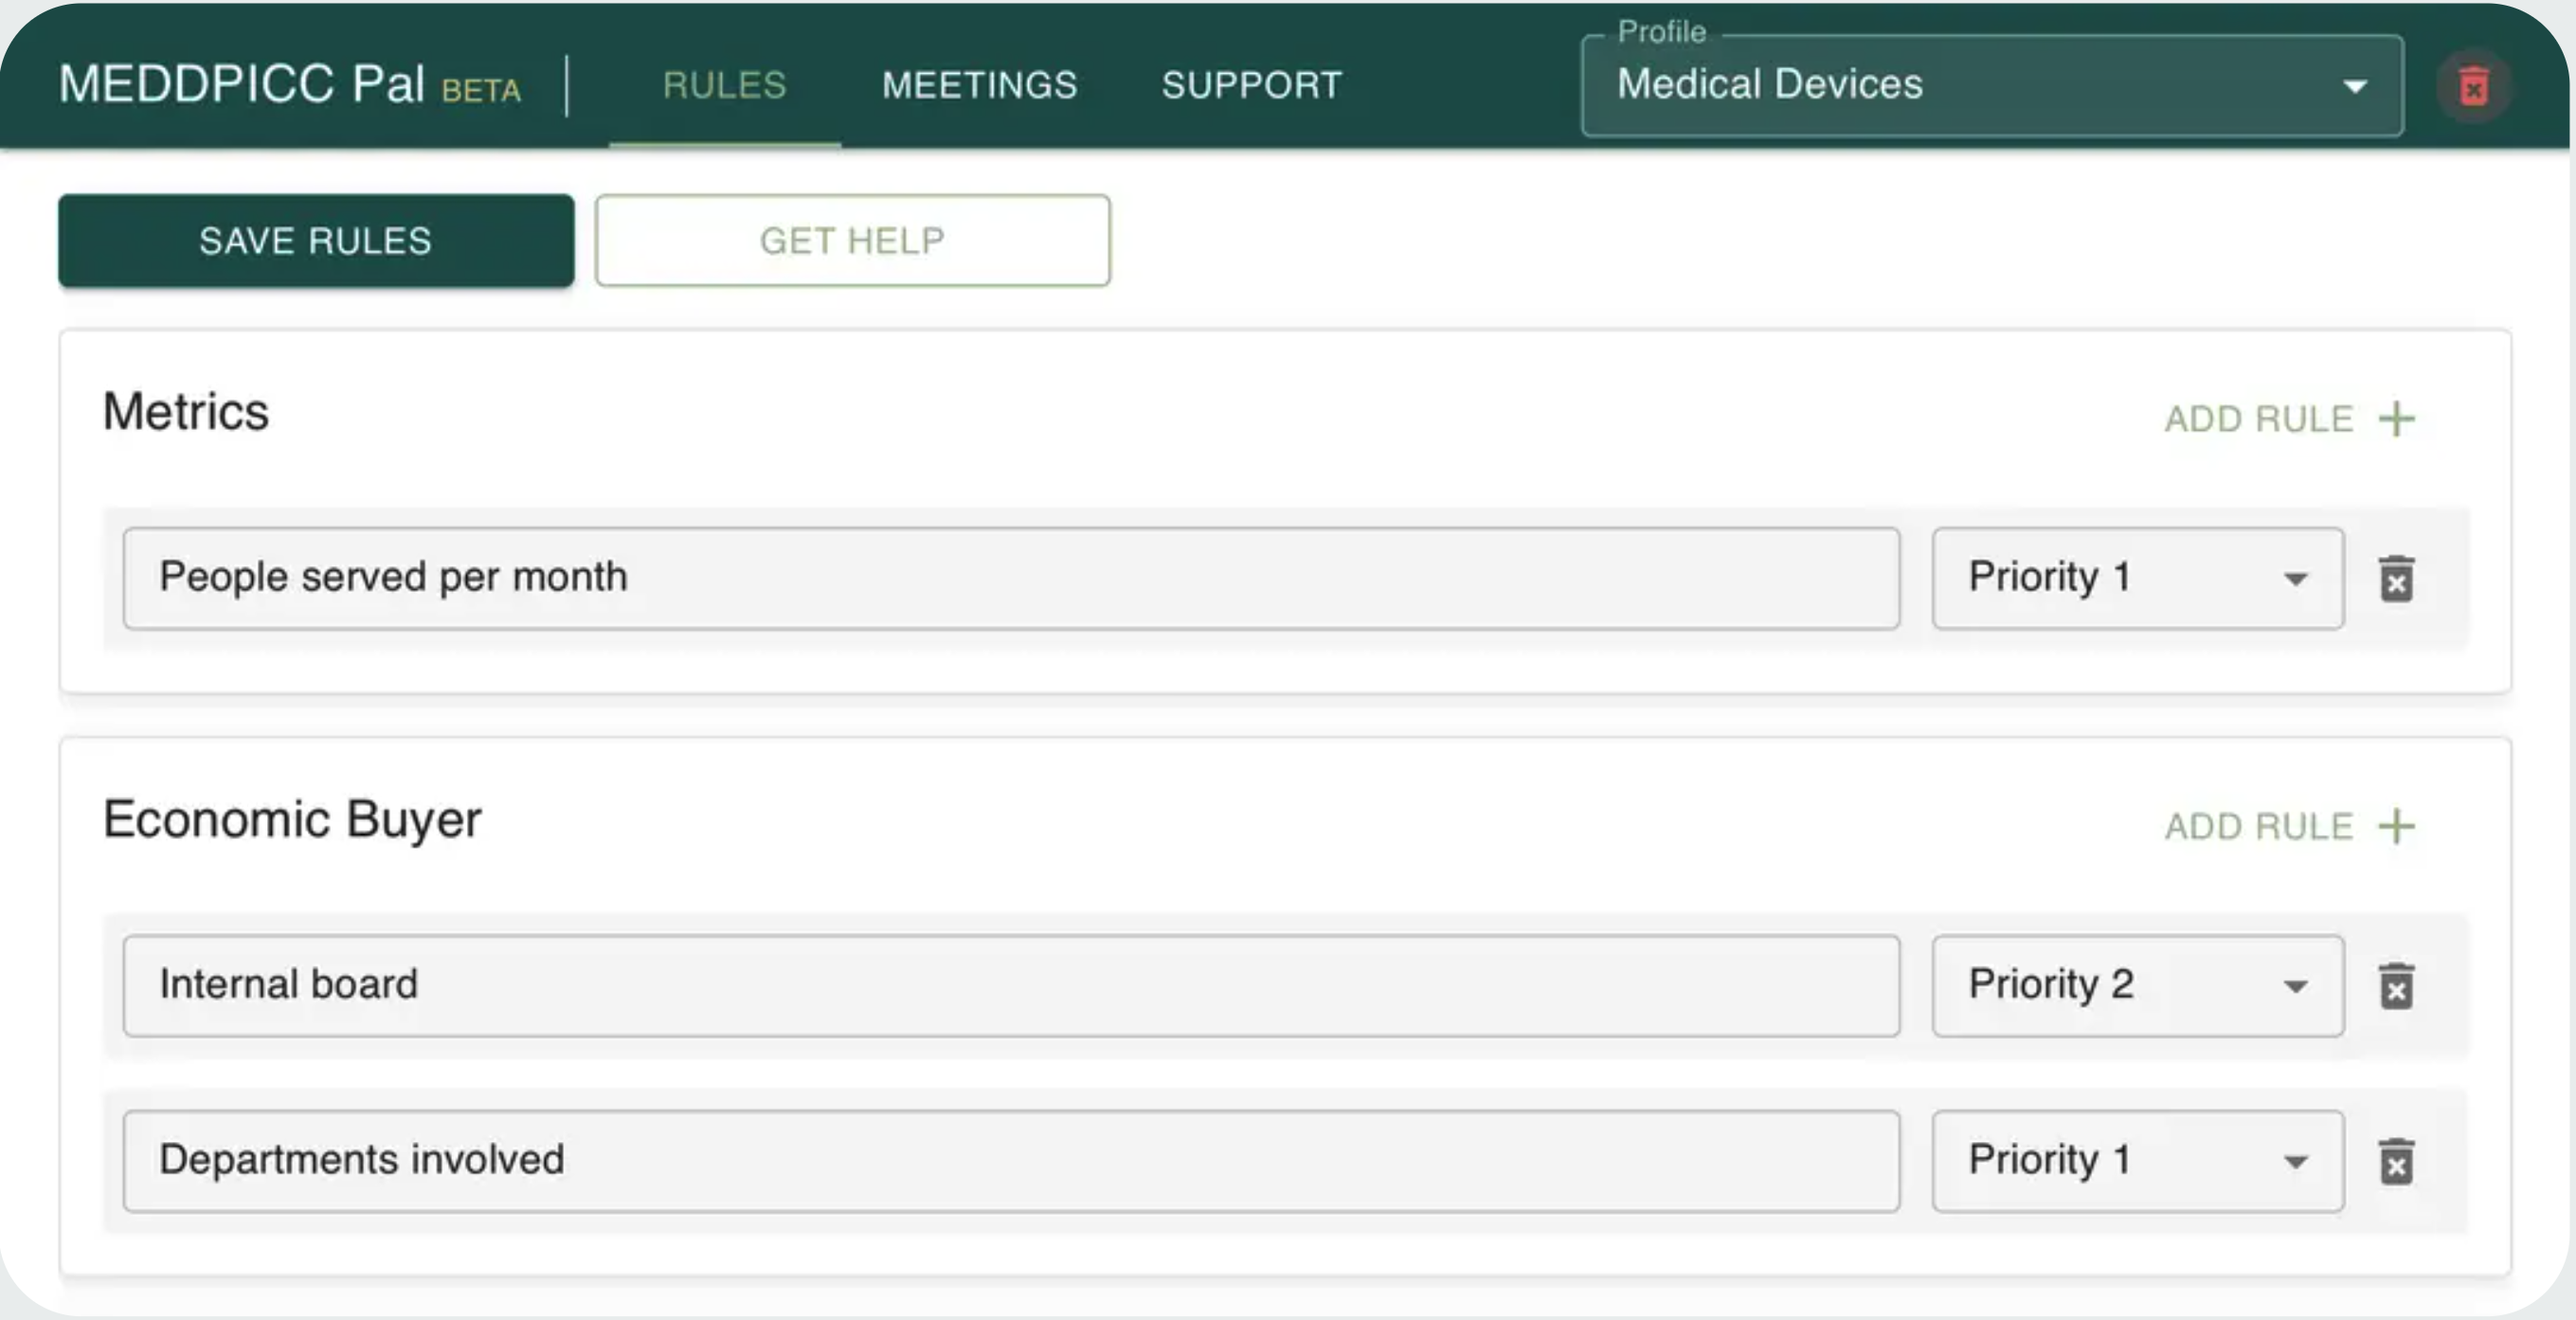
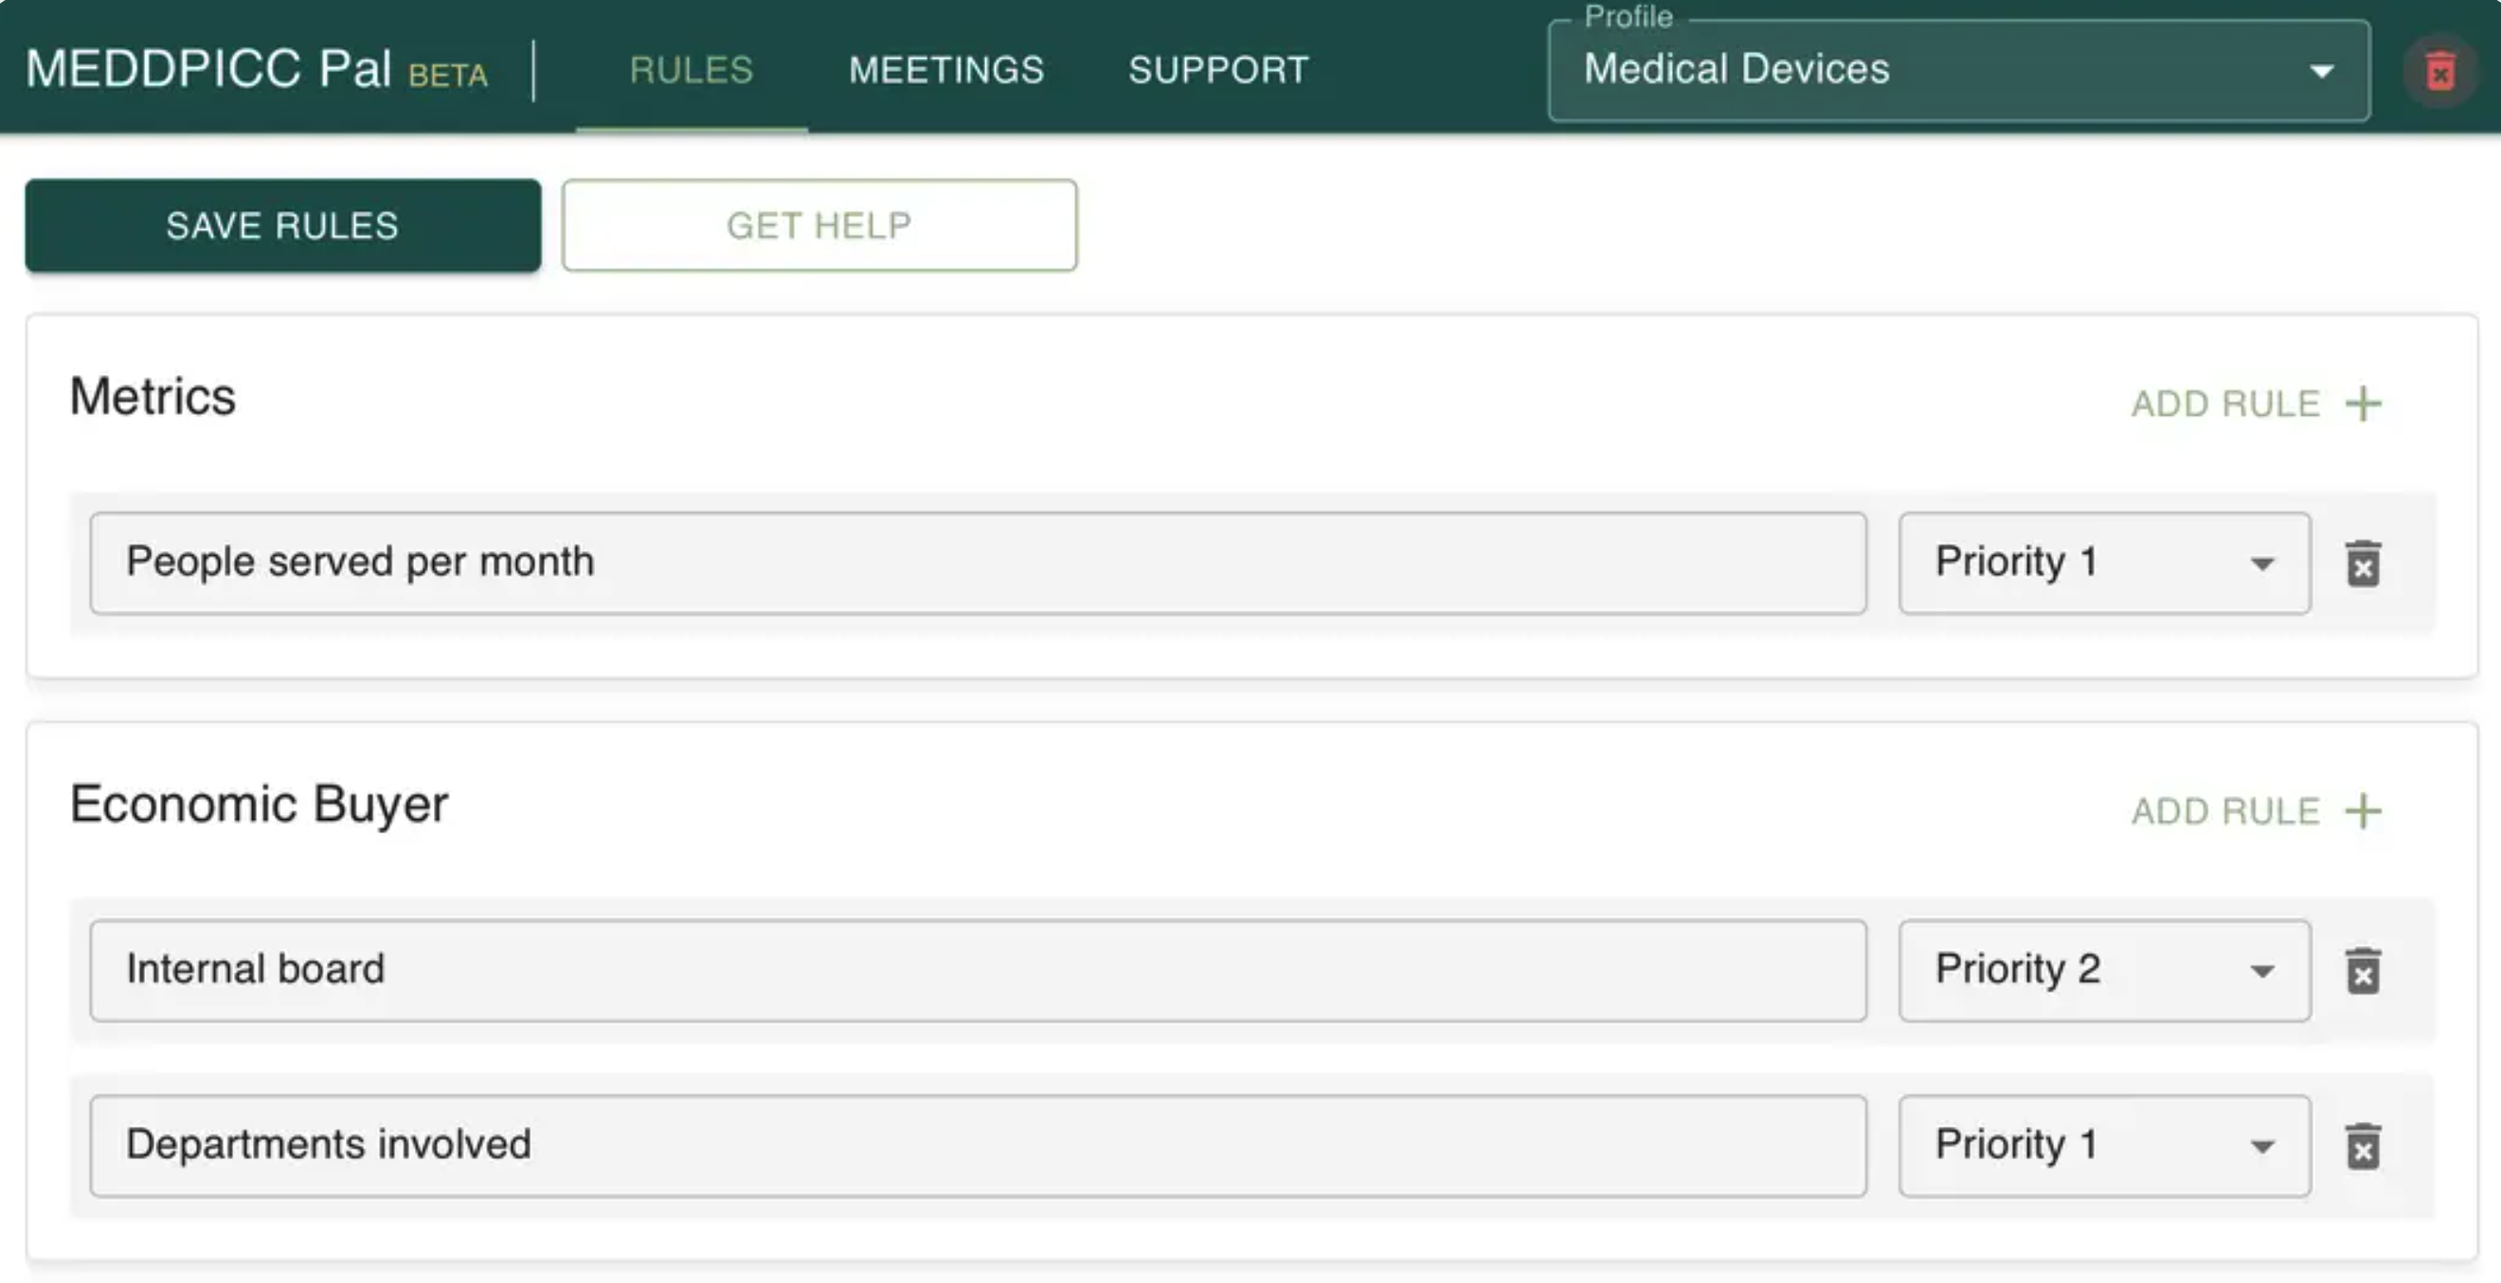
commit

diff --git a/app/contentCards/MEDDPICCPalCard.js b/app/contentCards/MEDDPICCPalCard.js
@@ -182,7 +182,7 @@ function MEDDPICCPalCard() {
                   position: "relative",
                   width: "100%",
                   aspectRatio: "16 / 9",
-                  borderRadius: "8px",
+                  borderRadius: "2rem",
                   overflow: "hidden",
                   mb: 2,
                 }}
@@ -191,7 +191,7 @@ function MEDDPICCPalCard() {
                   src={carouselImages[currentImageIndex].src}
                   alt={carouselImages[currentImageIndex].alt}
                   fill
-                  style={{ objectFit: "fill" }}
+                  style={{ objectFit: "cover" }}
                 />
                 {/* Magnify Icon Button */}
                 <IconButton
@@ -389,28 +389,28 @@ function MEDDPICCPalCard() {
           onClose={() => setOpenImageModal(false)}
           maxWidth="lg"
           fullWidth
-          PaperProps={{
-            sx: {
-              backgroundColor: theme.palette.background.paper,
+          sx={{
+            "& .MuiPaper-root": {
+              backgroundColor: "transparent",
+              boxShadow: "none",
             },
           }}
         >
           <DialogTitle
+            elevation={0}
             sx={{
               display: "flex",
-              justifyContent: "space-between",
+              justifyContent: "flex-end",
               alignItems: "center",
               padding: "16px 24px",
-              borderBottom: `1px solid ${theme.palette.divider}`,
             }}
           >
-            <Typography variant="h6" sx={{ fontWeight: 600 }}>
-              {carouselImages[currentImageIndex].alt}
-            </Typography>
             <IconButton
               onClick={() => setOpenImageModal(false)}
               sx={{
                 color: theme.palette.text.primary,
+                backgroundColor: theme.palette.background.paper,
+                '&:hover': { backgroundColor: theme.palette.secondary.main },
               }}
             >
               <CloseIcon />
@@ -421,7 +421,7 @@ function MEDDPICCPalCard() {
               position: "relative",
               width: "100%",
               aspectRatio: "16 / 9",
-              padding: "24px",
+              borderRadius: '3rem'
             }}
           >
             <Image
@@ -430,6 +430,7 @@ function MEDDPICCPalCard() {
               fill
               style={{
                 objectFit: "contain",
+                borderRadius: "3rem",
               }}
             />
           </Box>

diff --git a/app/contentCards/SparkBinsCard.js b/app/contentCards/SparkBinsCard.js
@@ -37,13 +37,13 @@ function SparkBinsCard() {
   const [openImageModal, setOpenImageModal] = useState(false);
   const [isChromium] = useState(() => {
     if (typeof window === "undefined") return true;
-    
+
     const userAgent = navigator.userAgent;
     const isChrome = /Chrome|Chromium|Opera/.test(userAgent);
     const isEdge = /Edg/.test(userAgent);
     const isFirefox = /Firefox/.test(userAgent);
     const isSafari = /Safari/.test(userAgent) && !/Chrome/.test(userAgent);
-    
+
     return (isChrome || isEdge) && !isFirefox && !isSafari;
   });
 
@@ -393,28 +393,27 @@ function SparkBinsCard() {
           onClose={() => setOpenImageModal(false)}
           maxWidth="lg"
           fullWidth
-          PaperProps={{
-            sx: {
-              backgroundColor: theme.palette.background.paper,
+          sx={{
+            "& .MuiPaper-root": {
+              backgroundColor: "transparent",
+              boxShadow: "none",
             },
           }}
         >
           <DialogTitle
             sx={{
               display: "flex",
-              justifyContent: "space-between",
+              justifyContent: "flex-end",
               alignItems: "center",
               padding: "16px 24px",
-              borderBottom: `1px solid ${theme.palette.divider}`,
             }}
           >
-            <Typography variant="h6" sx={{ fontWeight: 600 }}>
-              {carouselImages[currentImageIndex].alt}
-            </Typography>
             <IconButton
               onClick={() => setOpenImageModal(false)}
               sx={{
                 color: theme.palette.text.primary,
+                backgroundColor: theme.palette.background.paper,
+                "&:hover": { backgroundColor: theme.palette.secondary.main },
               }}
             >
               <CloseIcon />
@@ -426,6 +425,7 @@ function SparkBinsCard() {
               width: "100%",
               aspectRatio: "16 / 9",
               padding: "24px",
+              borderRadius: "3rem",
             }}
           >
             <Image
@@ -434,6 +434,7 @@ function SparkBinsCard() {
               fill
               style={{
                 objectFit: "contain",
+                borderRadius: "3rem",
               }}
             />
           </Box>
